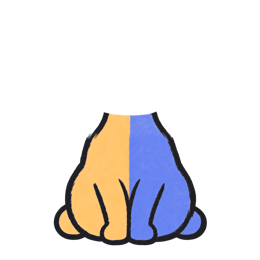
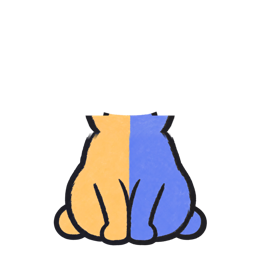
fix(pet): fill the cheek gap and sit the head lower
The body layer is redrawn so its neck rises behind the head with the
outline wrapped around each cheek, filling the unlined notch between the
cheeks and shoulders; runtime copies regenerated. The head group (head,
ears, eyes) is lowered 24/1024 of the canvas in code via HEAD_DROP, which
shortens the neck and hides the seam under the chin, leaving the source
art as drawn.

Claude-Session: https://claude.ai/code/session_012EzchSAnQHcjqHSd5QfHXD

Changed region(s): [[0.3077, 0.4308, 0.4308, 0.5231], [0.5846, 0.4308, 0.6769, 0.5231]]

diff --git a/src/components/SharedPet.tsx b/src/components/SharedPet.tsx
@@ -39,6 +39,12 @@ const LAYERS = {
   eyesClosed: EYES_CLOSED,
 };
 type LayerName = keyof typeof LAYERS;
+
+// The head group (head, ears, eyes) sits this fraction of the canvas lower
+// than drawn -- 24px of the 1024 source. It shortens the neck and tucks the
+// body's cheek outline behind the head. Done here rather than by moving the
+// pixels, so the source art stays as drawn and the amount is one number.
+const HEAD_DROP = 24 / 1024;
 const LAYER_COUNT = Object.keys(LAYERS).length;
 
 // Development only: there the layers are served by Metro, through a tunnel
@@ -413,15 +419,25 @@ export default function SharedPet({
             the body instead of the neck seam sliding under a still head. */}
         <Animated.View style={[styles.layer, pivots.breath, breathStyle]}>
           {layer('body')}
-          <Animated.View style={[styles.layer, pivots.leftEar, leftEarStyle]}>
-            {layer('leftEar')}
+          {/* Head, ears and eyes move as one group, lowered onto the body. */}
+          <Animated.View
+            style={[
+              styles.layer,
+              { transform: [{ translateY: size * HEAD_DROP }] },
+            ]}
+          >
+            <Animated.View style={[styles.layer, pivots.leftEar, leftEarStyle]}>
+              {layer('leftEar')}
+            </Animated.View>
+            <Animated.View
+              style={[styles.layer, pivots.rightEar, rightEarStyle]}
+            >
+              {layer('rightEar')}
+            </Animated.View>
+            {layer('head')}
+            {layer('eyesOpen', eyesOpenStyle)}
+            {layer('eyesClosed', eyesClosedStyle)}
           </Animated.View>
-          <Animated.View style={[styles.layer, pivots.rightEar, rightEarStyle]}>
-            {layer('rightEar')}
-          </Animated.View>
-          {layer('head')}
-          {layer('eyesOpen', eyesOpenStyle)}
-          {layer('eyesClosed', eyesClosedStyle)}
         </Animated.View>
       </Animated.View>
     </Pressable>

diff --git a/docs/testing-log.md b/docs/testing-log.md
@@ -2323,3 +2323,14 @@ before Metro-over-tunnel loads finished. Second pass: `Image.prefetch` all
 layers at app launch, a 3s fallback, and the mood title revealed with the
 cat via `onReady`. Not yet re-checked on device. Also added: occasional
 quick tail wags and a tap reaction (hop, ear perk, squint, tail flick).
+
+## 2026-09-25 — Cheek gap and a lower head
+
+The user saw unfilled notches at the cheeks: the head layer's cheek outline
+stopped short of the shoulders, with a pale erased fringe. They redrew the
+body layer so its neck rises behind the head with the outline wrapped around
+each cheek (the head layer was unchanged); runtime copies were regenerated
+and all seven layers checked against their sources at @1x/@2x/@3x. The head
+group was then lowered 24/1024 in code (`HEAD_DROP`), previewed at 0/16/32/48
+before choosing, which also covers a faint seam under the chin. Remaining,
+minor: a few smudged pixels where each cheek line meets its shoulder line.

diff --git a/CLAUDE.md b/CLAUDE.md
@@ -534,7 +534,11 @@ line of copy per mood was dropped at the user's request.
 
 `src/components/SharedPet.tsx` stacks transparent raster layers from
 `assets/cat/runtime`: tail, body, separate ears, head, then one eye layer.
-Metro selects the 260/520/780 (`1x`/`2x`/`3x`) PNG automatically. Every layer
+Metro selects the 260/520/780 (`1x`/`2x`/`3x`) PNG automatically. The head
+group (head, ears, eyes) is drawn `HEAD_DROP` (24/1024 of the canvas) lower
+than the art, set in code rather than by moving pixels; the body's neck
+reaches up behind the head with its outline wrapped around the cheeks, so
+the drop hides the neck seam instead of opening a gap (2026-09-25). Every layer
 shares one square coordinate system, so it must stay absolute-fill and must
 not be independently cropped or positioned. The palette follows the app's
 crossover convention: day-orange/partner on the viewer's left,
